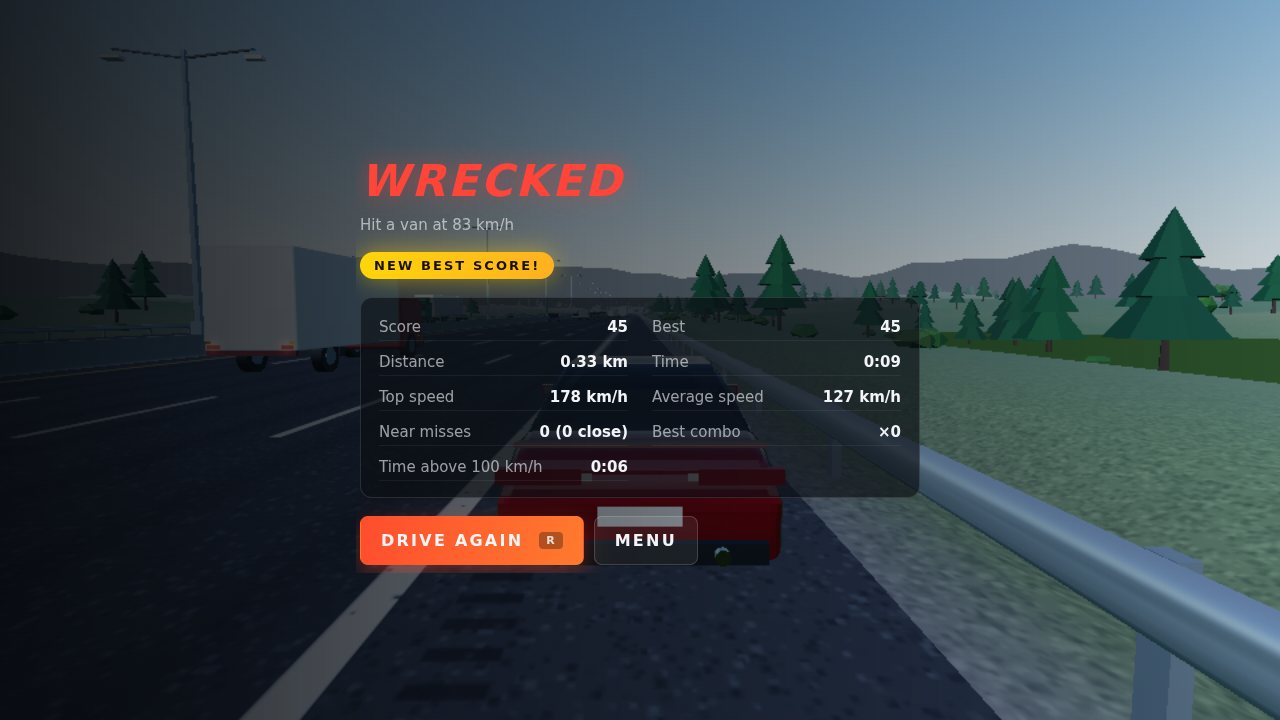
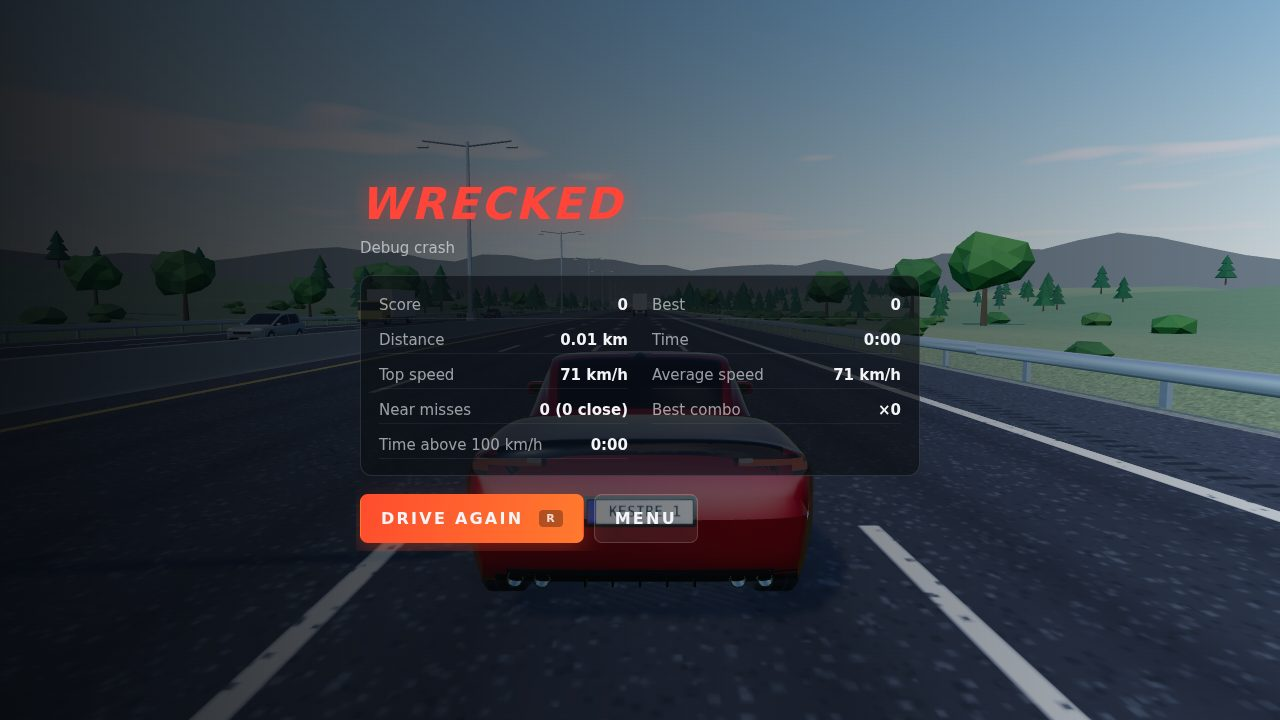
Refresh screenshots and document the garage and mobile play
- README: the five cars with their simulated specs, playing on phones
  and tablets (touch controls, tilt steering, landscape, rotate prompt),
  the procedural car kit, the dev car viewer and retuning the cars.
- New screenshots: car lineup, garage, day/sunset/night driving, game
  over, touch controls and the portrait prompt.
- Menu keys: the garage shortcut is handled before the garage arrows.

Claude-Session: https://claude.ai/code/session_01UWHHzaFUpkMGJ53HmNAQx5

diff --git a/dev/cars.ts b/dev/cars.ts
@@ -4,7 +4,7 @@ import * as THREE from 'three';
 import { RoomEnvironment } from 'three/addons/environments/RoomEnvironment.js';
 import { CarModel } from '../src/render/CarModel.ts';
 import { buildTrafficGeometry, TRAFFIC_TYPES } from '../src/traffic/TrafficTypes.ts';
-import { getCar, isCarId } from '../src/vehicle/CarCatalog.ts';
+import { CARS, getCar, isCarId } from '../src/vehicle/CarCatalog.ts';
 
 const params = new URLSearchParams(location.search);
 const id = params.get('car');
@@ -39,8 +39,21 @@ scene.add(ground);
 
 const t0 = performance.now();
 const trafficKind = params.get('traffic');
-const car = trafficKind ? trafficModel(trafficKind) : new CarModel(def, { paint, withHeadlightLights: false });
+const car = params.has('lineup') ? lineup() : trafficKind ? trafficModel(trafficKind) : new CarModel(def, { paint, withHeadlightLights: false });
 const buildMs = performance.now() - t0;
+
+/** All five cars side by side (for the README). */
+function lineup(): CarModel {
+  const root = new THREE.Group();
+  CARS.forEach((c, i) => {
+    const m = new CarModel(c, { paint: c.defaultPaint, withHeadlightLights: false });
+    m.root.position.set((i - 2) * 2.7, 0, (i - 2) * -0.6);
+    m.root.rotation.y = 0.78;
+    root.add(m.root);
+  });
+  const stub = { root, paintMaterial: new THREE.MeshPhysicalMaterial(), setHeadlights: () => undefined };
+  return stub as unknown as CarModel;
+}
 
 /** Traffic vehicle with the same materials the instanced renderer uses. */
 function trafficModel(kind: string): CarModel {
@@ -88,6 +101,7 @@ const views: Record<string, [number, number, number, number]> = {
   top: [0.001, 9, 0.001, 32],
   back: [0.001, 0.9, -8, 26],
   low: [3.8, 0.45, 3.2, 40],
+  lineup: [2.5, 2.4, 11.5, 38],
 };
 const single = params.get('view');
 const layout = single ? [single] : ['three', 'rear', 'side', 'front'];

diff --git a/src/core/Game.ts b/src/core/Game.ts
@@ -535,14 +535,14 @@ export class Game {
     if (input.consume('fullscreen')) this.toggleFullscreen();
     switch (this.state) {
       case 'menu': {
+        if (input.consume('garage') && this.menus.activeScreen === 'start') this.menus.open('garage', 'start');
         const screen = this.menus.activeScreen;
-        if (input.consume('pause')) this.menus.back();
         if (screen === 'garage') {
           if (input.consume('left')) this.menus.garageStep(-1);
           if (input.consume('right')) this.menus.garageStep(1);
         }
-        if (input.consume('garage') && screen === 'start') this.menus.open('garage', 'start');
-        if (input.consume('confirm') && (screen === 'start' || screen === 'garage')) this.startRun();
+        if (input.consume('pause')) this.menus.back();
+        else if (input.consume('confirm') && (screen === 'start' || screen === 'garage')) this.startRun();
         break;
       }
       case 'playing':

diff --git a/README.md b/README.md
@@ -1,9 +1,12 @@
 # Redline — Endless Highway
 
-A realistic 3D endless-highway driving game that runs in the browser. Weave a
-400 hp (300 kW) rear-wheel-drive sports sedan through traffic at up to 280 km/h on an
-infinite, procedurally generated motorway. There are no downloads or external
-assets: every model, texture and sound is generated in code.
+A realistic 3D endless-highway driving game that runs in the browser. Pick one
+of five sports cars in the garage and weave through traffic at up to 322 km/h on
+an infinite, procedurally generated motorway. It plays with a keyboard, a
+gamepad or a phone's touch screen in landscape. There are no downloads or
+external assets: every model, texture and sound is generated in code.
+
+![The garage: five sports cars](docs/screenshots/cars.jpg)
 
 ![Title screen](docs/screenshots/menu.jpg)
 
@@ -11,16 +14,60 @@ assets: every model, texture and sound is generated in code.
 | --- | --- | --- |
 | ![Day](docs/screenshots/day.jpg) | ![Sunset](docs/screenshots/sunset.jpg) | ![Night](docs/screenshots/night.jpg) |
 
-| Handbrake slide: tire smoke and skid marks | Game over |
+| Garage | Game over |
 | --- | --- |
-| ![Handbrake slide](docs/screenshots/handbrake.jpg) | ![Game over](docs/screenshots/gameover.jpg) |
+| ![Garage](docs/screenshots/garage.jpg) | ![Game over](docs/screenshots/gameover.jpg) |
+
+| Phone in landscape: touch controls | Phone in portrait |
+| --- | --- |
+| ![Touch controls](docs/screenshots/mobile.jpg) | ![Rotate your phone](docs/screenshots/rotate.jpg) |
+
+## The cars
+
+Open the **GARAGE** from the title screen (or press **G**), flip through the
+cars with **◀ ▶** (← → / A D on a keyboard) and pick a paint. Each car
+remembers its own paint. Drag the car to spin it.
+
+| Car | Type | Power | 0–100 km/h | Top speed | Weight | Character |
+| --- | --- | --- | --- | --- | --- | --- |
+| **Kestrel S** | Sports sedan, front engine | 400 hp twin-turbo I6 | 4.7 s | 282 km/h | 1,480 kg | The balanced all-rounder (the original car) |
+| **Tempest GT** | Grand tourer, front-mid V8 | 590 hp | 4.4 s | 318 km/h | 1,640 kg | Heavy, torquey and planted at speed |
+| **Vortex V10** | Mid-engine supercar | 640 hp, 8,700 rpm V10 | 3.6 s | 322 km/h | 1,470 kg | Fastest in the garage, sharpest turn-in |
+| **Falco 6 RS** | Rear-engine coupé | 525 hp, 9,000 rpm flat six | 3.5 s | 306 km/h | 1,440 kg | Huge traction and braking, lively tail |
+| **Sprite R** | Roadster, open top | 300 hp turbo I4 | 4.9 s | 254 km/h | 1,180 kg | Slowest on the straights, most agile |
+
+All five are rear-wheel drive. Each has its own mass, weight distribution,
+torque curve, gearing (6 or 7 speeds), tires, brakes, aero and engine sound
+(four, six, eight and ten cylinders fire at different pitches). The figures
+above are what the simulation actually does: `tests/catalog.test.ts` checks
+them.
+
+## Playing on a phone or tablet
+
+- The game runs in **landscape**. In portrait, a full-screen prompt with a
+  turning phone asks you to rotate the device 90°, and the game stays hidden
+  (a run in progress pauses) until you do.
+- **Touch controls** appear while driving: **◀ ▶** steering at the bottom
+  left (slide your thumb between them), **GAS** and **BRAKE** pedals at the
+  bottom right with **HB** (handbrake) above, **+ / −** shift buttons with
+  the manual gearbox, and camera and pause buttons at the top right. Every
+  control is multi-touch, so you can hold gas, steer and handbrake together.
+- **Tilt steering:** Settings → Steering → *Tilt phone* steers by rolling the
+  phone like a steering wheel. iPhones ask for motion permission the first
+  time.
+- Tapping **DRIVE** goes fullscreen and locks the screen to landscape where
+  the browser allows it (Android Chrome). On an iPhone, *Share → Add to Home
+  Screen* gives a fullscreen, landscape web app.
+- The menus, HUD and gauges switch to a compact layout on short landscape
+  screens and keep clear of notches and rounded corners.
 
 ## How to play
 
 - Press **Enter** (or click **DRIVE**) on the title screen. The run starts
   rolling at 70 km/h in the middle of the motorway.
 - **Score** comes from distance (1 point per 10 m). Above **100 km/h** a
-  speed multiplier applies: ×2 at 200 km/h, ×2.8 at 280 km/h.
+  speed multiplier applies: ×2 at 200 km/h, ×2.8 at 280 km/h, ×3.2 at
+  320 km/h.
 - **Near misses:** overtake a car with less than 1.2 m between your sides to
   score 150 × your combo. Each near miss within 4.5 s grows the combo, up to
   ×10. A **close call** (under 0.5 m) pays 50 % more. Any contact breaks the
@@ -47,6 +94,7 @@ assets: every model, texture and sound is generated in code.
 | Pause | Esc / P | Start |
 | Restart instantly | R | Back / View |
 | Fullscreen | F | — |
+| Garage (title screen) | G, then ← → | — |
 
 Notes:
 
@@ -61,10 +109,11 @@ Notes:
 
 ### Settings
 
-Gearbox (automatic/manual), graphics quality (low/medium/high), time of day
-(day/sunset/night, with working headlights at night), driving aids (ABS, TCS
-and ESC on or off), volume, paint colour and FPS counter. Settings are saved
-automatically.
+Gearbox (automatic/manual), steering on touch screens (buttons/tilt),
+graphics quality (low/medium/high), time of day (day/sunset/night, with
+working headlights at night), driving aids (ABS, TCS and ESC on or off),
+volume and FPS counter. The selected car and each car's paint are chosen in
+the garage. Settings are saved automatically.
 
 ![Settings](docs/screenshots/settings.jpg)
 
@@ -94,7 +143,14 @@ URL options, useful for testing or sharing a look:
 | `?tod=day\|sunset\|night` | Override the time of day |
 | `?view=orbit` | Orbit camera around the car |
 | `?start=8000000` | Start 8,000 km down the road, millions of metres from the world origin (floating-origin demo) |
-| `?debug` | Exposes `window.redline` (state, speed, score, forced crash) for automated browser tests |
+| `?touch` | Forces the touch controls on (for testing on a desktop) |
+| `?debug` | Exposes `window.redline` (state, speed, score, forced crash, car selection) for automated browser tests |
+
+`npm run dev` also serves a car viewer for working on the models:
+`/dev/cars.html?car=vortex` shows one car from four angles (`&view=low`,
+`&view=side`, … for one view, `&night` for lit lamps, `&matte` to judge the
+surfaces without reflections), `?traffic=suv` shows a traffic car and
+`?lineup&view=lineup` shows all five.
 
 ## Deploy to GitHub Pages
 
@@ -120,18 +176,49 @@ One-time setup:
 ```
 src/
   core/      Game (state machine + main loop), FixedStepLoop, Scoring, Settings, math, seeded RNG
-  vehicle/   VehicleConfig (all tuning), Engine, Gearbox, Tire, VehiclePhysics
+  vehicle/   VehicleConfig (tuning of the Kestrel), CarCatalog (the five cars), Engine, Gearbox,
+             Tire, VehiclePhysics
   physics/   Collision (2D oriented boxes + impulses), VehicleBody (car ↔ collision body)
-  input/     Input (keyboard + gamepad, steering and pedal ramps)
+  input/     Input (keyboard, gamepad, touch buttons and tilt; steering and pedal ramps)
   world/     RoadPath (procedural centerline), RoadChunk/ChunkManager (recycled chunks),
              Terrain, SceneryModels, Environment (sky, light, fog), World (floating origin)
   traffic/   TrafficAI (IDM, lane-change rules), TrafficCar, TrafficManager (spawning, pooling,
-             collisions, near misses), TrafficTypes (procedural models), TrafficRenderer (instancing)
+             collisions, near misses), TrafficTypes + TrafficModels (procedural models),
+             TrafficRenderer (instancing)
   render/    Renderer (quality profiles), CarModel (player car), CameraRig, Effects, Textures
+    car/     Procedural car kit: Profile (smooth design curves), Body (lofted body + glasshouse),
+             GridMesh (mesh + creased normals), Decal (surface projection), CabinMask (windows),
+             Wheel, Parts (mirrors, wings, exhausts, …), Designs (the five bodies)
   audio/     AudioEngine (Web Audio synthesis)
-  ui/        Hud (canvas gauges), Menus, styles.css
+  ui/        Hud (canvas gauges), Menus (incl. garage), TouchControls, RotateOverlay, styles.css
+dev/         Car viewer (dev server only)
 tests/       Vitest suites
 ```
+
+### Procedural cars
+
+Every car is generated from a design in `src/render/car/Designs.ts`, placed
+relative to its own physics dimensions so the bodywork always wraps the
+simulated wheels:
+
+- **Lofted body:** smooth side-view lines (hood, deck, underside), plan-view
+  width and fender crowns are sampled through superellipse cross-sections.
+  The front and rear corners are pulled back in plan view, so bumpers wrap
+  around. Wheel arches cut real openings with wells behind them, and normals
+  are split at a crease angle so arch lips and panel edges stay crisp.
+- **Glasshouse:** a second loft for the windscreen, roof and rear window. The
+  windows, pillars and seals are painted into a texture laid out along the
+  shell, so they're always symmetric and follow the glass exactly.
+- **Surface decals:** headlights (housings, projectors, LED running lights),
+  taillights, grilles with a honeycomb mesh, intakes, vents, shut lines,
+  handles and number plates are 2D outlines projected onto the body, so
+  they hug its curves.
+- **Parts:** detailed wheels (lathed tires with tread grooves, six spoke
+  designs with dished faces, brake discs and calipers), aero mirrors, rear
+  wings, splitters, diffuser strakes, exhausts, wipers, and for the roadster
+  a windscreen, roll hoops, seats and dashboard.
+- **Traffic:** hatchbacks, sedans and SUVs use the same generator at a
+  coarser resolution (about 8k triangles each) and are drawn with instancing.
 
 ### Physics: a custom vehicle model instead of Rapier
 
@@ -157,7 +244,7 @@ game uses its own model instead:
   control at any speed. The engine inertia is reflected through the gearbox.
 - **Engine:** an interpolated torque curve, engine braking, clutch slip at
   launch and a hard-cut rev limiter.
-- **Gearbox:** 6 speeds plus reverse, with shift time, automatic logic
+- **Gearbox:** 6 or 7 speeds plus reverse, with shift time, automatic logic
   (throttle-dependent shift points, kickdown, no gear hunting) and manual mode
   with over-rev protection.
 - **Weight transfer:** sprung-mass pitch, roll and heave spring-dampers drive
@@ -200,18 +287,23 @@ game uses its own model instead:
 
 Everything is synthesized with the Web Audio API:
 
-- **Engine:** a harmonic oscillator stack following the six-cylinder firing
-  frequency (rpm/20 Hz), with load-dependent distortion and filtering, intake
-  roar and lift-off pops.
+- **Engine:** a harmonic oscillator stack following each car's firing
+  frequency (rpm/60 × cylinders/2, so the V10 screams and the V8 burbles),
+  with load-dependent distortion and filtering, intake roar and lift-off
+  pops.
 - **Tires and road:** screech, wind, road roar, rumble strips and barrier
   scrapes.
 - **Traffic:** four doppler-shifted, stereo-panned voices, plus horns.
 - **One-shots:** shift, crash and near-miss whoosh sounds.
 
-## Tuning the car
+## Tuning the cars
 
-Every handling value lives in `src/vehicle/VehicleConfig.ts` (`DEFAULT_VEHICLE`).
-The most useful ones:
+The Kestrel's handling values live in `src/vehicle/VehicleConfig.ts`
+(`DEFAULT_VEHICLE`). The other four cars in `src/vehicle/CarCatalog.ts`
+start from it and override what makes them different. If you retune a car,
+update its garage specs too: `npm test` simulates every car and fails if
+the advertised 0–100 km/h time, top speed or peak power no longer match.
+The most useful values:
 
 | Value | Default | Effect |
 | --- | --- | --- |
@@ -257,6 +349,10 @@ such as crash thresholds, start speed and scoring, live at the top of
 - CPU cost is small. Vehicle physics takes about 14 µs per 120 Hz step,
   traffic about 10–20 µs per step, and building a chunk about 1.3 ms (roughly
   once per second at top speed, spread over frames).
+- The player's car is about 75k triangles and takes a few hundred
+  milliseconds to build. The other cars are built in the background while
+  the title screen idles, so the garage switches instantly.
+- On phones the game stops rendering while the rotate prompt is up.
 
-If an older laptop struggles, choose **Low**. It turns off shadows and clouds,
-renders at 0.75× resolution and shortens the draw distance.
+If an older laptop or phone struggles, choose **Low**. It turns off shadows
+and clouds, renders at 0.75× resolution and shortens the draw distance.
